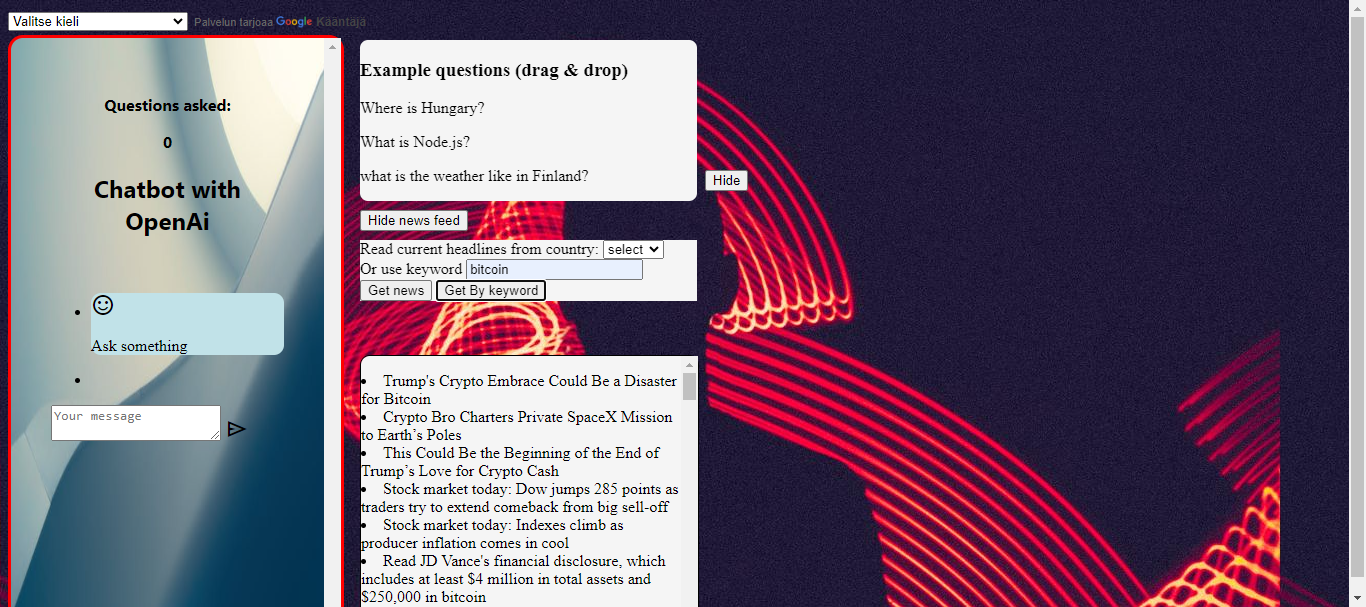
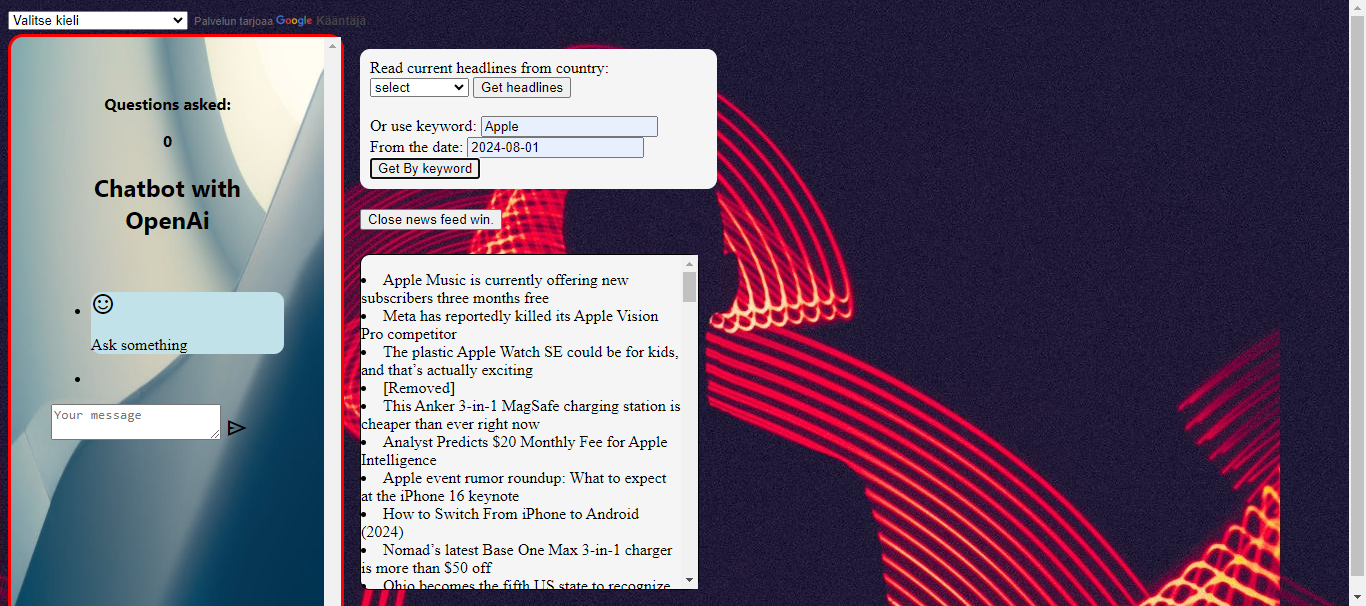
new example images added

diff --git a/js/news.js b/js/news.js
@@ -1,7 +1,8 @@
 
 var newstext = document.querySelector(".newsText")
 var ulTitles = document.querySelector('titles')
-var apiKey=""
+var apiKey = "056550832dc047248fa9bc3b6c9038d0"
+
 
 const date = new Date();
 
@@ -64,7 +65,7 @@ function getByKeyword() {
 
     }
     console.log(searchDate)
-    /*
+    
 
     var keyword = document.getElementById("keyword").value
     console.log(keyword)
@@ -94,9 +95,25 @@ function getByKeyword() {
         
       
     })
-    .catch(error=>console.log(error))*/
+    .catch(error=>console.log(error))
     
     }
+
+    function allowDrop(ev) {
+        ev.preventDefault();
+      }
+      
+      function drag(ev) {
+        ev.dataTransfer.setData("text", ev.target.id);
+      }
+    
+     
+      
+      function drop(ev) {
+        ev.preventDefault();
+        var data = ev.dataTransfer.getData("text");
+        ev.target.value=document.getElementById(data).innerText;
+      }
 
 
 function getNewsHeadlines() {
@@ -124,6 +141,7 @@ fetch(req)
         const li = document.createElement("li")
         li.innerText= article.title
         document.getElementById("newstext").appendChild(li)
+      
             
         });
         

diff --git a/index.html b/index.html
@@ -29,18 +29,7 @@ function googleTranslateElementInit() {
 </head>
 
 <body onload="getApiKey()">
-    <span class="notranslate">
-   <div class="examples">
-    <h3>Example questions (drag & drop)</h3>
-    <p id="exp1" draggable="true" ondragstart="drag(event)">Where is Hungary?</p>
-    <p id="exp2" draggable="true" ondragstart="drag(event)">What is Node.js?</p>
-    <p id="exp3"draggable="true" ondragstart="drag(event)">what is the weather like in Finland?</p>
-  
-    
-
-   </div>
-   <button class="hideBtn" id="hide">Hide</button>
-</span>
+   
 
    <script>
     

diff --git a/stylesFile.css b/stylesFile.css
@@ -64,7 +64,7 @@ body {
     padding: 10px;
     position: fixed;
     left: 360px;
-    top:240px;
+    top:50px;
     background-color: whitesmoke;
     width: 25%;
     border-radius: 10px;
@@ -73,7 +73,7 @@ body {
     border-radius: 10px;
     position: fixed;
     left: 360px;
-    top:355px;
+    top:255px;
     background-color: whitesmoke;
     width: 25%;
     border: 1px solid black;

diff --git a/README.md b/README.md
@@ -2,25 +2,28 @@ Project keywords: Vanilla-JavaScript, AI, HTML, CSS, API, jQuery.
 
 A JavaScript chatbot and news feed application that uses OpenAI's GPT-3.5 Turbo API to generate responses for the user and Newsapi.org's HTTP REST API to generate a news feed for the user.
 
-Example image of the user interface where the chatbot has been asked a question and at the same time news headlines from the USA have been retrieved.
+The main idea of combining the GPT interface and the news feed is that the user can ask the artificial intelligence for additional information on news topics.
 
-![alt text](chatbot-1.png)
+An example picture where current news headlines have been searched by limiting the target country to the USA.
+
+![alt text](chatbotUsa.png)
 
 
-Example image of the user interface showing the found news feed with the searched keyword. (keyword is bitcoin)
+Example image, where news is searched for from the News API using the keyword (Apple) starting on August 1, 2024.
 
 ![alt text](bykeyword.png)
 
-overview of the interface used to retrieve news from the News API. The user interface has options from which to select news headlines from Great Britain, as well as news with the search term Apple from 1.8.24
-
-![alt text](UInews.png)
 
 
 CHATBOT
 
 The program has a html interface with an input field where the user can write their question and send it by clicking the submit icon. The question is stored in a variable that the javaScript function sends to the OpenAi API in JSON format. The response from the API is retrieved using the JavaScript Fetch method.
 
-News Feed
+Example picture of the chatbot user interface and asking a question and receiving an answer
+
+![alt text](chatbotApple.png)
+
+NEWS FEED
 
 The news feed function has its own user interface, so you can use the chatbot and the news feed at the same time or separately.
 
@@ -42,11 +45,7 @@ Translate
 
 The application includes the Google Translate API, so you can translate the user interface and the chatbot's response to any language that google translate supports. By default, all answers will be in English.
 
-Drag & Drop feature
 
-index.html contains a div element with a few sample questions. Questions can be dragged and dropped into the text area and sent as questions to Open AI's API. This feature is made with HTML Drag and Drop API.
-
-Example question div element can also hide on button click and show again on second click. this is done using Jquery's hide and show methods.
 
 
 
